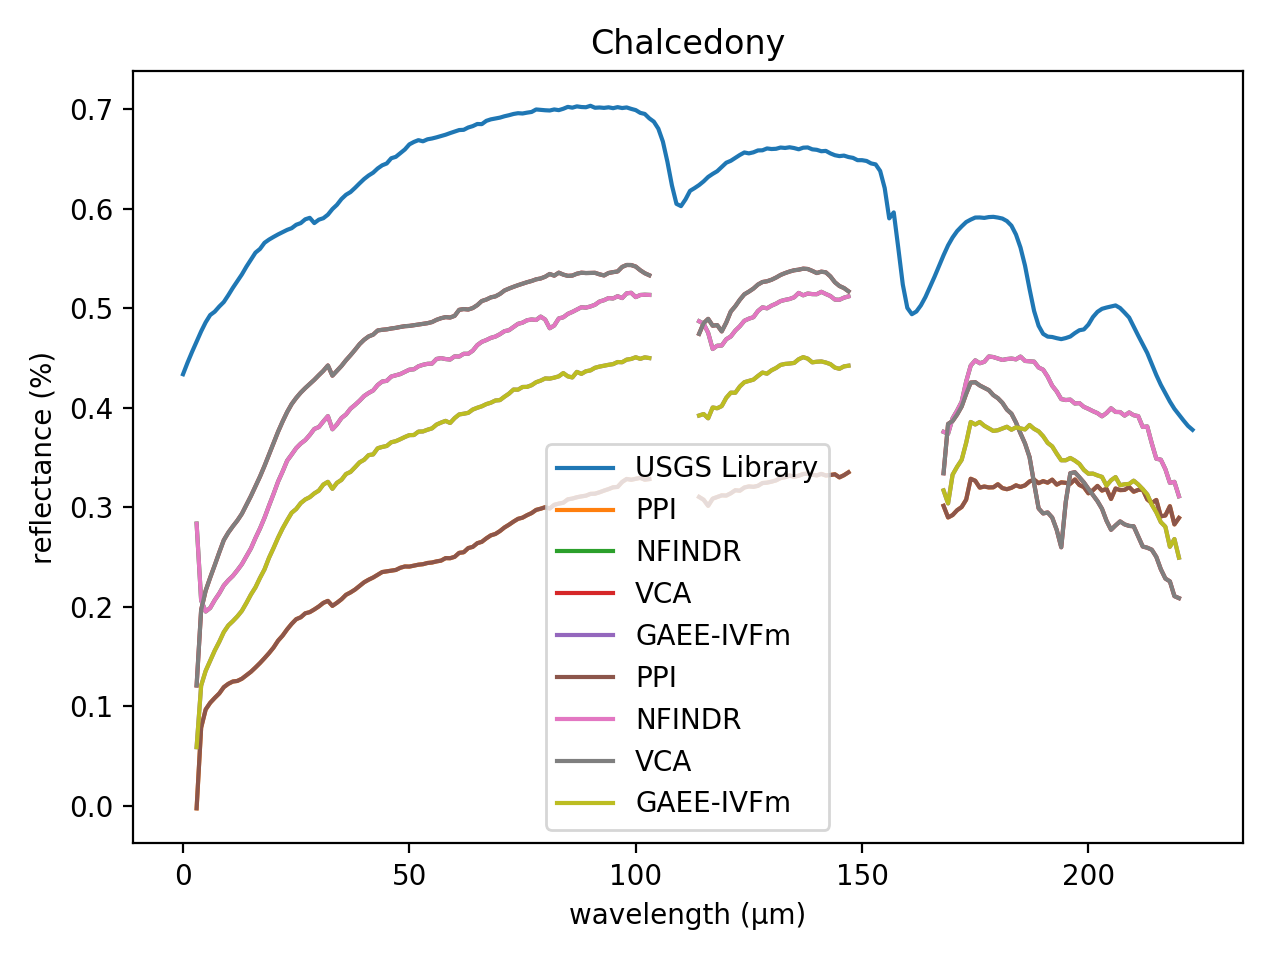
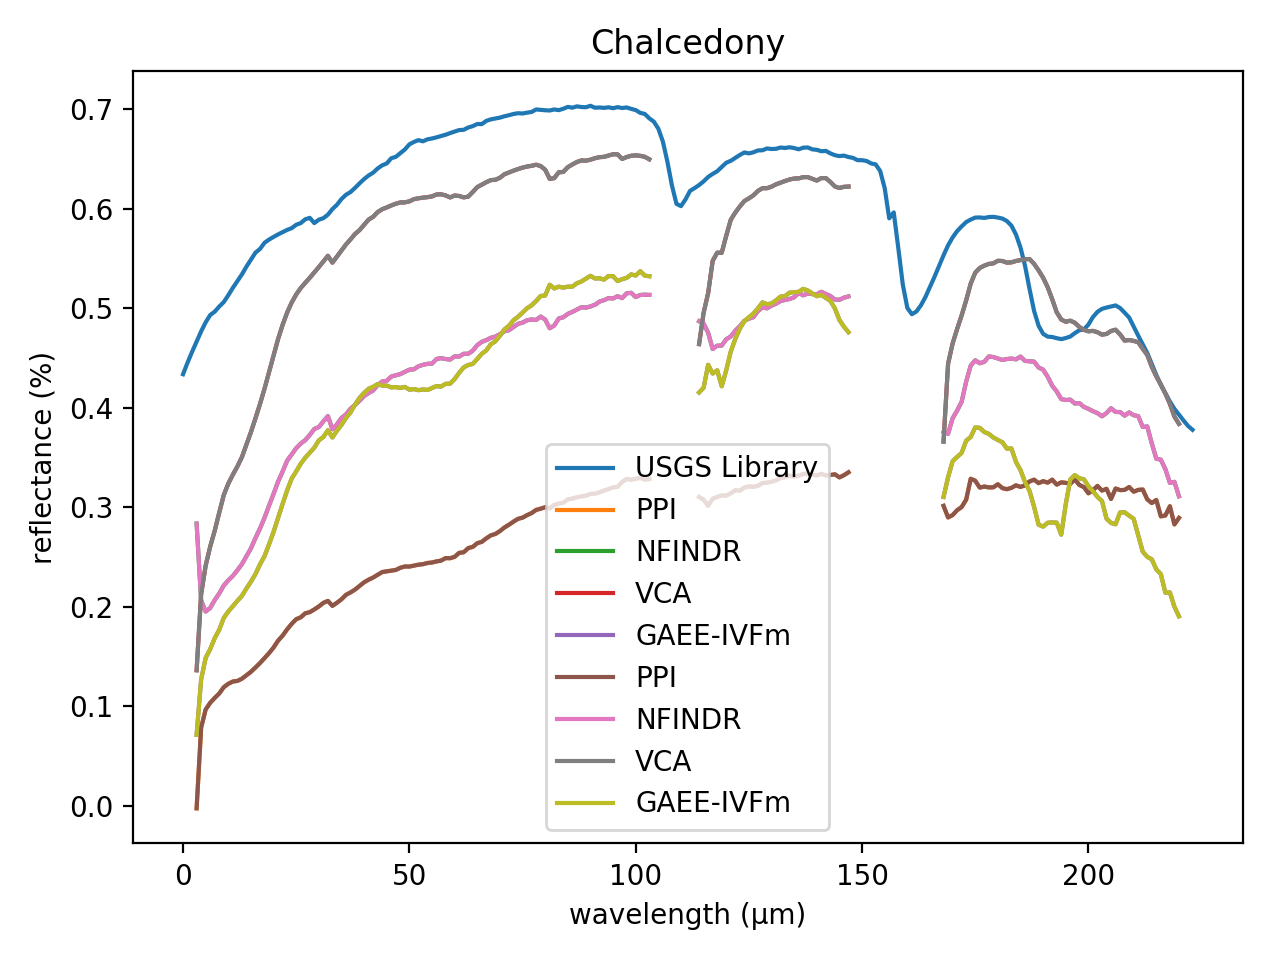
Endmembers Plot

diff --git a/DEMO.py b/DEMO.py
@@ -518,25 +518,10 @@ def run():
 	tab5_sid_stats['Statistics'] = ['_Mean_','_Std_','_p-value_','Gain','_Time_']	
 	tab5_sid_stats.set_index('Statistics',inplace=True) 
 
-	best_gaee = None
-	best_mean_gaee = 9999
-
-	algo2 = []
-
-	for k in range(0,3):
-		algo2.append(algo[k])
-
-	for k in algo:
-		if k.name != 'PPI' and k.name != 'NFINDR' and k.name != 'VCA':
-			if np.mean(k.sam_mean) <= best_mean_gaee :
-				best_gaee = k
-				best_mean_gaee = np.mean(k.sam_mean)
-
-	algo2.append(best_gaee)
-
 
 	for l in algo:
-
+		best_gaee = None
+		best_mean_gaee = 9999
 		algo2 = []
 
 		for k in range(0,3):
@@ -553,6 +538,9 @@ def run():
 		p = stats.ttest_ind(np.mean(vca.sam_all_runs_value,axis=1),np.mean(l.sam_all_runs_value,axis=1))
 		tab1_sam[l.name] = l.sam_values_min
 		tab4_sam_stats[l.name] = [np.mean(l.sam_mean), np.mean(l.sam_std), p[0], 100-(100*np.mean(best_gaee.sam_mean)/np.mean(l.sam_mean)), np.mean(l.time_runs)]
+		
+		best_gaee = None
+		best_mean_gaee = 9999
 		algo2 = []
 
 		for k in range(0,3):

diff --git a/README.md b/README.md
@@ -29,55 +29,55 @@ Maximum number of iterations (N-FINDR): 1
 
 | Endmembers       |    PPI |   NFINDR |    VCA |   GAEE |   GAEE-IVFm |   GAEE-VCA |   GAEE-IVFm-VCA |
 |:-----------------|-------:|---------:|-------:|-------:|------------:|-----------:|----------------:|
-| Alunite          | 0.3744 |   **0.0926** | 0.1025 | 0.2554 |      0.2839 |     0.1043 |          0.1043 |
-| Andradite        | 0.0758 |   0.0725 | **0.0671** | 0.0717 |      0.0682 |     0.0791 |          0.0797 |
-| Buddingtonite    | 0.2081 |   **0.0762** | 0.0786 | 0.1274 |      0.1255 |     **0.0762** |          **0.0762** |
-| Dumortierite     | 0.1907 |   0.0720 | **0.0702** | 0.0899 |      0.0896 |     0.1198 |          0.0789 |
-| Kaolinite_1      | **0.0795** |   0.0870 | 0.0862 | 0.1048 |      0.0883 |     0.0870 |          0.0870 |
-| Kaolinite_2      | 0.0820 |   0.0889 | 0.0639 | 0.0708 |      **0.0593** |     0.0630 |          0.0758 |
-| Muscovite        | 0.2506 |   **0.1091** | 0.1306 | 0.1633 |      0.1756 |     **0.1091** |          **0.1091** |
-| Montmonrillonite | 0.1338 |   0.0648 | **0.0640** | 0.0670 |      0.0660 |     0.0726 |          0.0646 |
-| Nontronite       | 0.1033 |   0.0758 | 0.0799 | 0.0783 |      **0.0728** |     0.0758 |          0.0826 |
-| Pyrope           | **0.0579** |   0.1222 | 0.2933 | 0.0603 |      0.0636 |     0.0781 |          0.1105 |
-| Sphene           | **0.0673** |   0.2857 | 0.0770 | 0.1127 |      0.0819 |     0.2154 |          0.0693 |
-| Chalcedony       | 0.0871 |   0.0871 | 0.0953 | 0.1224 |      0.0853 |     **0.0752** |          **0.0752** |
+| Alunite          | 0.3744 |   **0.0926** | 0.1016 | 0.2821 |      0.2495 |     0.2154 |          0.1433 |
+| Andradite        | 0.0758 |   **0.0725** | 0.0874 | 0.0736 |      0.0763 |     0.0796 |          0.0832 |
+| Buddingtonite    | 0.2081 |   **0.0762** | 0.0786 | 0.1115 |      0.1240 |     **0.0762** |          **0.0762** |
+| Dumortierite     | 0.1907 |   0.0720 | **0.0708** | 0.0796 |      0.0905 |     0.1007 |          0.0721 |
+| Kaolinite_1      | **0.0795** |   0.0870 | 0.1191 | 0.0851 |      0.1025 |     0.1242 |          0.1556 |
+| Kaolinite_2      | 0.0820 |   0.0889 | 0.0811 | **0.0621** |      0.0657 |     0.0679 |          0.0886 |
+| Muscovite        | 0.2506 |   0.1091 | **0.1065** | 0.1635 |      0.1774 |     0.1454 |          0.1211 |
+| Montmonrillonite | 0.1338 |   0.0648 | **0.0640** | 0.0649 |      0.0804 |     0.0653 |          0.0646 |
+| Nontronite       | 0.1033 |   **0.0758** | 0.0799 | 0.0781 |      0.0771 |     0.0820 |          0.0771 |
+| Pyrope           | **0.0579** |   0.1222 | 0.2140 | 0.0695 |      0.0674 |     0.0616 |          0.2310 |
+| Sphene           | **0.0673** |   0.2857 | 0.0834 | 0.0781 |      0.1147 |     0.0698 |          0.0698 |
+| Chalcedony       | 0.0871 |   0.0871 | **0.0761** | 0.1175 |      0.1083 |     0.0765 |          0.0765 |
 
 ### SAM Statistics for Cuprite Dataset. 
 
-| Statistics   |     PPI |   NFINDR |     VCA |    GAEE |   GAEE-IVFm |   GAEE-VCA |   GAEE-IVFm-VCA |
-|:-------------|--------:|---------:|--------:|--------:|------------:|-----------:|----------------:|
-| _Mean_       |  0.1425 |   0.1059 |  0.1055 |  0.1191 |      0.1081 |     0.0969 |          **0.0867** |
-| _Std_        |  **0.0000** |   0.0086 |  0.0177 |  0.0137 |      0.0100 |     0.0185 |          0.0046 |
-| _p-value_    | -7.7174 |  **-0.0756** |  0.0000 | -1.3599 |     -0.4524 |     1.7790 |          3.5647 |
-| Gain         | 39.2077 |  -2.0236 | -2.4421 |  9.2518 |      0.0000 |   **-11.5383** |        -24.7343 |
-| _Time_       |  0.3415 |   4.0307 |  0.7263 |  0.3175 |      0.2477 |     0.2476 |          **0.2470** |
+| Statistics   |      PPI |   NFINDR |     VCA |    GAEE |   GAEE-IVFm |   GAEE-VCA |   GAEE-IVFm-VCA |
+|:-------------|---------:|---------:|--------:|--------:|------------:|-----------:|----------------:|
+| _Mean_       |   0.1425 |   0.1059 |  **0.0984** |  0.1106 |      0.1139 |     0.1054 |          0.1054 |
+| _Std_        |   **0.0000** |   0.0086 |  0.0065 |  0.0094 |      0.0109 |     0.0131 |          0.0142 |
+| _p-value_    | -28.8327 |  -2.1689 |  0.0000 | -2.2800 |     -4.8922 |    **-0.8218** |         -4.3537 |
+| Gain         |  26.0739 |   0.5364 | **-7.0768** |  4.7203 |      7.5104 |     0.0000 |          0.0460 |
+| _Time_       |   0.2686 |   4.0963 |  0.6955 |  0.2738 |      0.2505 |     0.2393 |          **0.2325** |
 
 ### Comparison between the ground-truth Laboratory Reflectances and extracted endmembers using PPI, N-FINDR, VCA, GAEE, GAEE-IVFm using SID for the Cuprite Dataset.
 
 | Endmembers       |    PPI |   NFINDR |    VCA |   GAEE |   GAEE-IVFm |   GAEE-VCA |   GAEE-IVFm-VCA |
 |:-----------------|-------:|---------:|-------:|-------:|------------:|-----------:|----------------:|
-| Alunite          | **0.0000** |   **0.0000** | 0.0140 | **0.0000** |      **0.0000** |     **0.0000** |          **0.0000** |
-| Andradite        | **0.0000** |   0.0062 | 0.0065 | **0.0000** |      0.0055 |     0.0131 |          **0.0000** |
-| Buddingtonite    | 0.0477 |   0.0072 | 0.0200 | **0.0000** |      0.0204 |     0.0505 |          0.0072 |
-| Dumortierite     | 0.0562 |   **0.0069** | 0.0072 | 0.0116 |      0.0117 |     0.0075 |          0.0207 |
-| Kaolinite_1      | 0.0114 |   0.0131 | 0.0129 | 0.0137 |      0.0134 |     **0.0073** |          0.0131 |
-| Kaolinite_2      | 0.0114 |   0.0109 | 0.0057 | 0.0062 |      **0.0052** |     0.0109 |          0.0064 |
-| Muscovite        | 0.0969 |   0.0317 | 0.0217 | 0.0320 |      0.0384 |     0.0285 |          **0.0152** |
-| Montmonrillonite | 0.0230 |   0.0049 | 0.0053 | 0.0051 |      0.0050 |     0.0052 |          **0.0047** |
-| Nontronite       | 0.0126 |   0.0077 | 0.0102 | 0.0082 |      **0.0076** |     0.0077 |          0.0079 |
-| Pyrope           | 0.0071 |   0.0531 | 0.0348 | 0.0112 |      **0.0068** |     0.0079 |          0.0115 |
-| Sphene           | **0.0076** |   0.0912 | 0.0911 | 0.0462 |      0.0251 |     0.0529 |          0.0529 |
-| Chalcedony       | 0.0088 |   0.0088 | 0.0070 | 0.0217 |      0.0093 |     **0.0067** |          **0.0067** |
+| Alunite          | **0.0000** |   **0.0000** | 0.0133 | **0.0000** |      **0.0000** |     **0.0000** |          **0.0000** |
+| Andradite        | **0.0000** |   0.0062 | 0.0087 | 0.0063 |      **0.0000** |     0.0085 |          0.0119 |
+| Buddingtonite    | 0.0477 |   **0.0072** | 0.0077 | 0.0197 |      0.0187 |     **0.0072** |          **0.0072** |
+| Dumortierite     | 0.0562 |   **0.0069** | 0.0072 | 0.0084 |      0.0130 |     0.0151 |          0.0075 |
+| Kaolinite_1      | 0.0114 |   0.0131 | 0.0167 | **0.0108** |      0.0175 |     0.0181 |          0.0256 |
+| Kaolinite_2      | 0.0114 |   0.0109 | 0.0076 | 0.0064 |      **0.0039** |     0.0053 |          0.0078 |
+| Muscovite        | 0.0969 |   0.0317 | **0.0143** | 0.0360 |      0.0390 |     0.0429 |          0.0313 |
+| Montmonrillonite | 0.0230 |   0.0049 | 0.0049 | 0.0051 |      0.0049 |     0.0049 |          **0.0047** |
+| Nontronite       | 0.0126 |   0.0077 | **0.0075** | 0.0077 |      0.0077 |     0.0094 |          0.0155 |
+| Pyrope           | 0.0071 |   0.0531 | 0.0532 | **0.0065** |      0.0071 |     0.0071 |          0.0740 |
+| Sphene           | **0.0076** |   0.0912 | 0.0096 | 0.0259 |      0.0308 |     0.0093 |          0.0093 |
+| Chalcedony       | 0.0088 |   0.0088 | **0.0069** | 0.0190 |      0.0307 |     0.0070 |          0.0070 |
 
 ### SID Statistics for Cuprite Dataset. 
 
-| Statistics   |     PPI |   NFINDR |     VCA |   GAEE |   GAEE-IVFm |   GAEE-VCA |   GAEE-IVFm-VCA |
-|:-------------|--------:|---------:|--------:|-------:|------------:|-----------:|----------------:|
-| _Mean_       |  0.0236 |   0.0227 |  0.0242 | 0.0144 |      **0.0134** |     0.0191 |          0.0183 |
-| _Std_        |  **0.0000** |   0.0033 |  0.0071 | 0.0044 |      0.0039 |     0.0081 |          0.0063 |
-| _p-value_    |  0.1484 |   0.3000 |  **0.0000** | 2.0795 |      2.3326 |     0.9717 |          0.7844 |
-| Gain         | 24.1712 |  -2.0236 | -2.4421 | 9.2518 |      0.0000 |   **-11.5383** |        -24.7343 |
-| _Time_       |  0.3415 |   4.0307 |  0.7263 | 0.3175 |      0.2477 |     0.2476 |          **0.2470** |
+| Statistics   |     PPI |   NFINDR |      VCA |    GAEE |   GAEE-IVFm |   GAEE-VCA |   GAEE-IVFm-VCA |
+|:-------------|--------:|---------:|---------:|--------:|------------:|-----------:|----------------:|
+| _Mean_       |  0.0236 |   0.0227 |   0.0216 |  0.0167 |      **0.0159** |     0.0164 |          0.0170 |
+| _Std_        |  **0.0000** |   0.0033 |   0.0102 |  0.0056 |      0.0020 |     0.0072 |          0.0026 |
+| _p-value_    | -0.2377 |  **-0.1269** |   0.0000 |  0.5195 |      0.6644 |     0.5181 |          0.5412 |
+| Gain         | 20.0709 |  -7.5403 | **-15.7717** | -3.0167 |      0.0000 |    -8.1203 |         -8.0706 |
+| _Time_       |  0.2686 |   4.0963 |   0.6955 |  0.2738 |      0.2505 |     0.2393 |          **0.2325** |
 
 ![alt text](./IMAGES/Alunite_Endmember.png)
 
